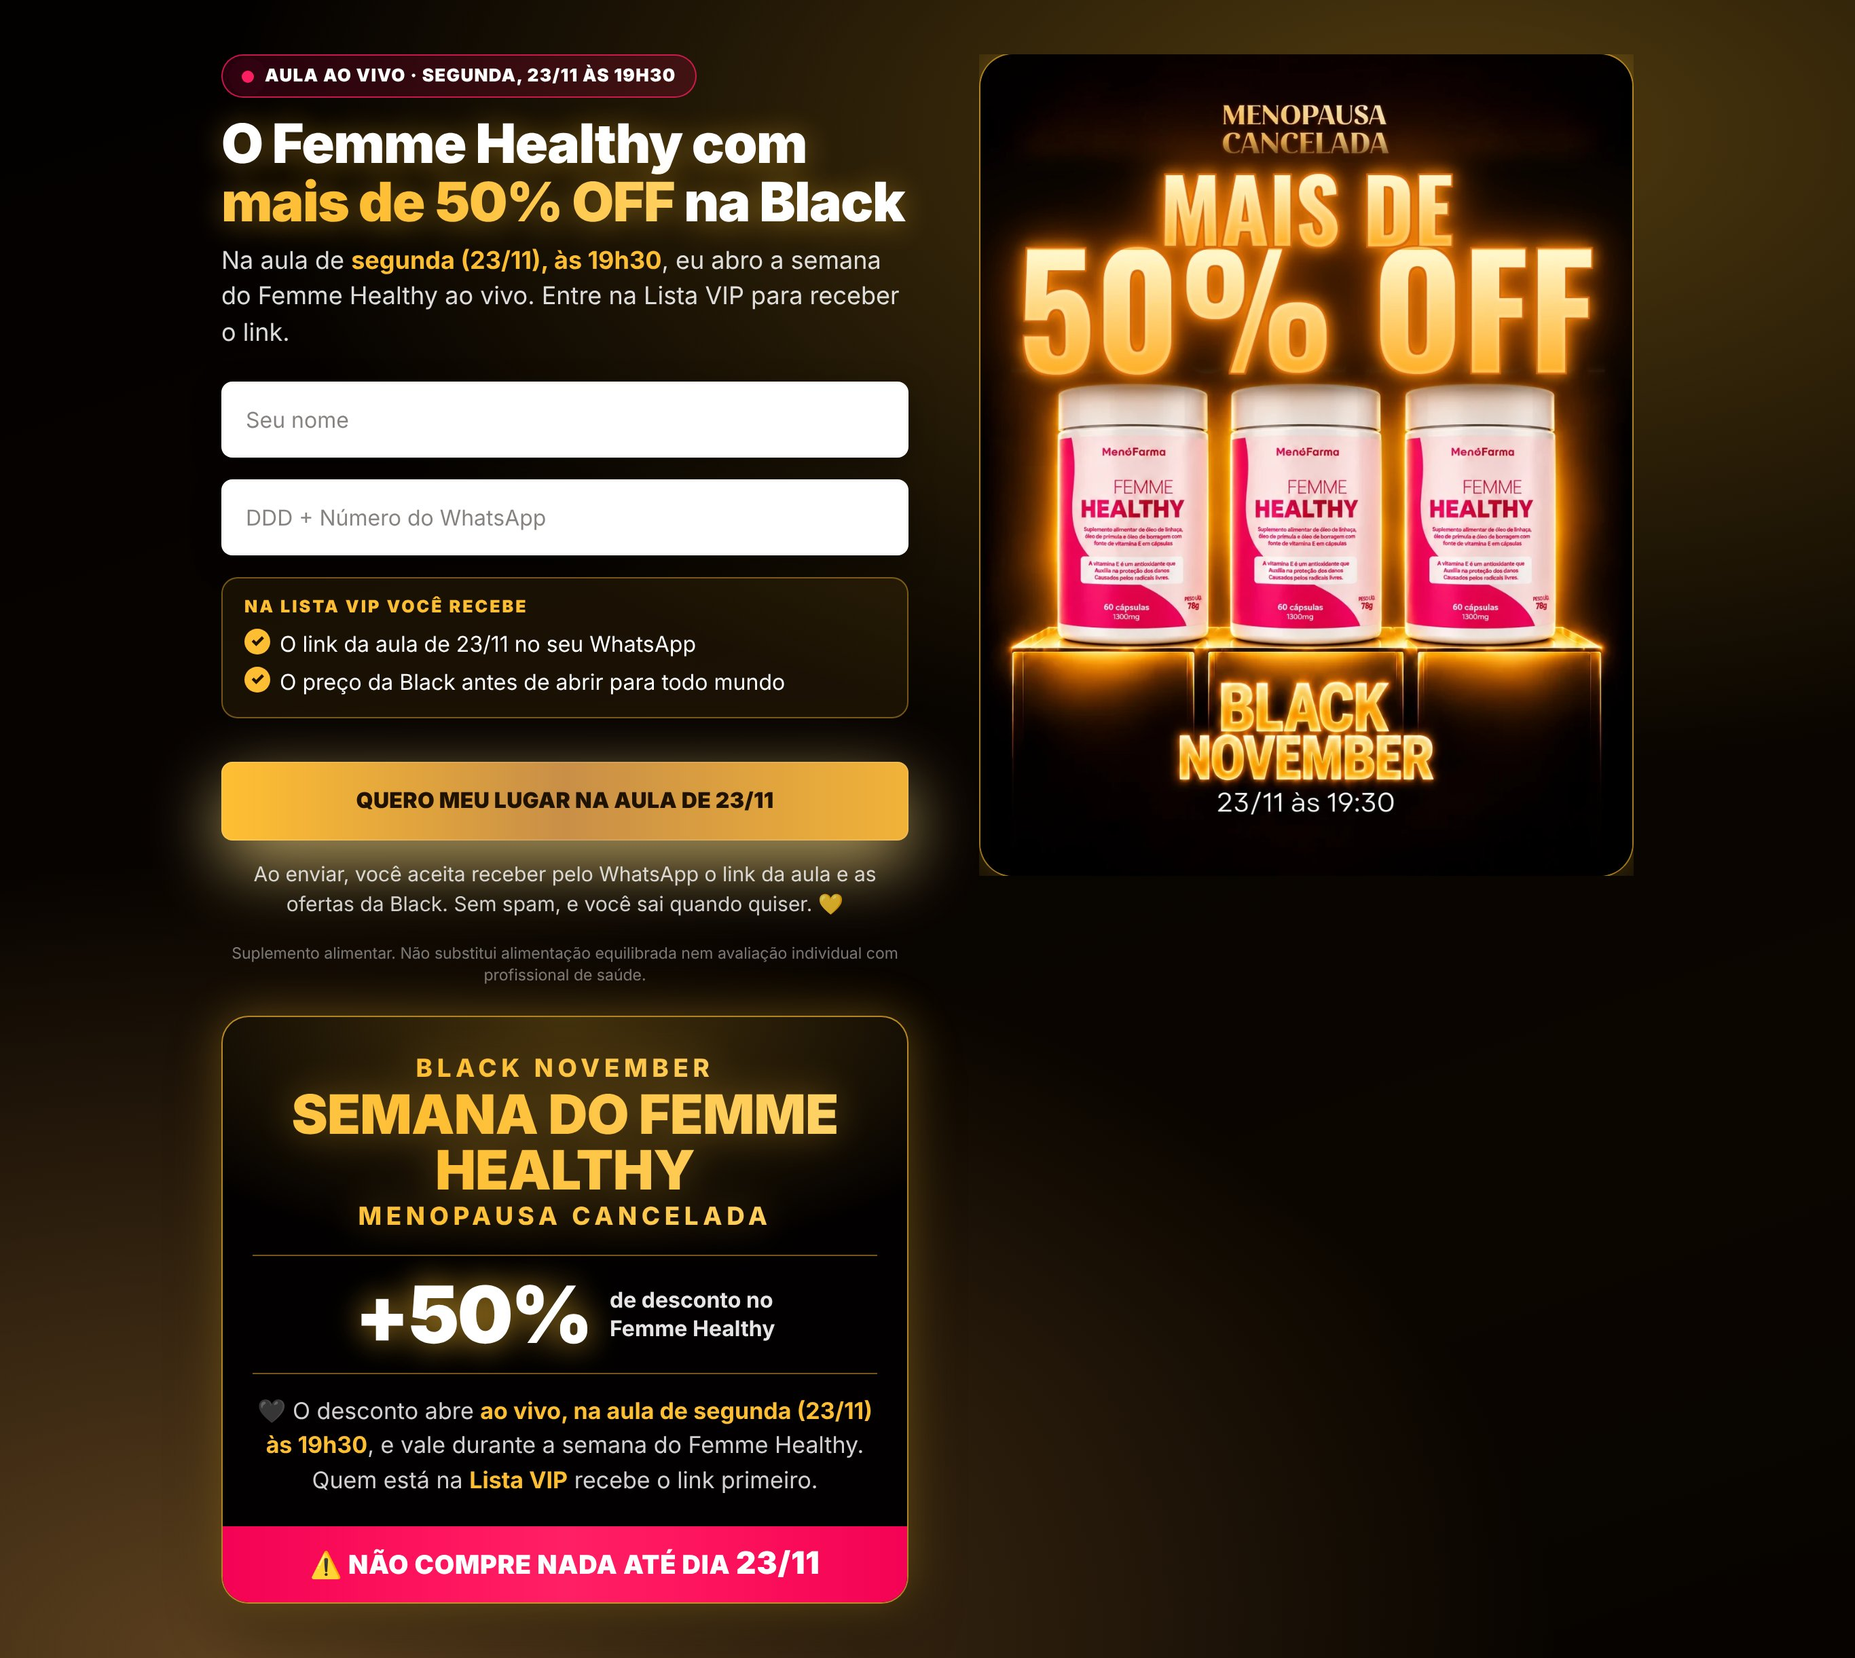
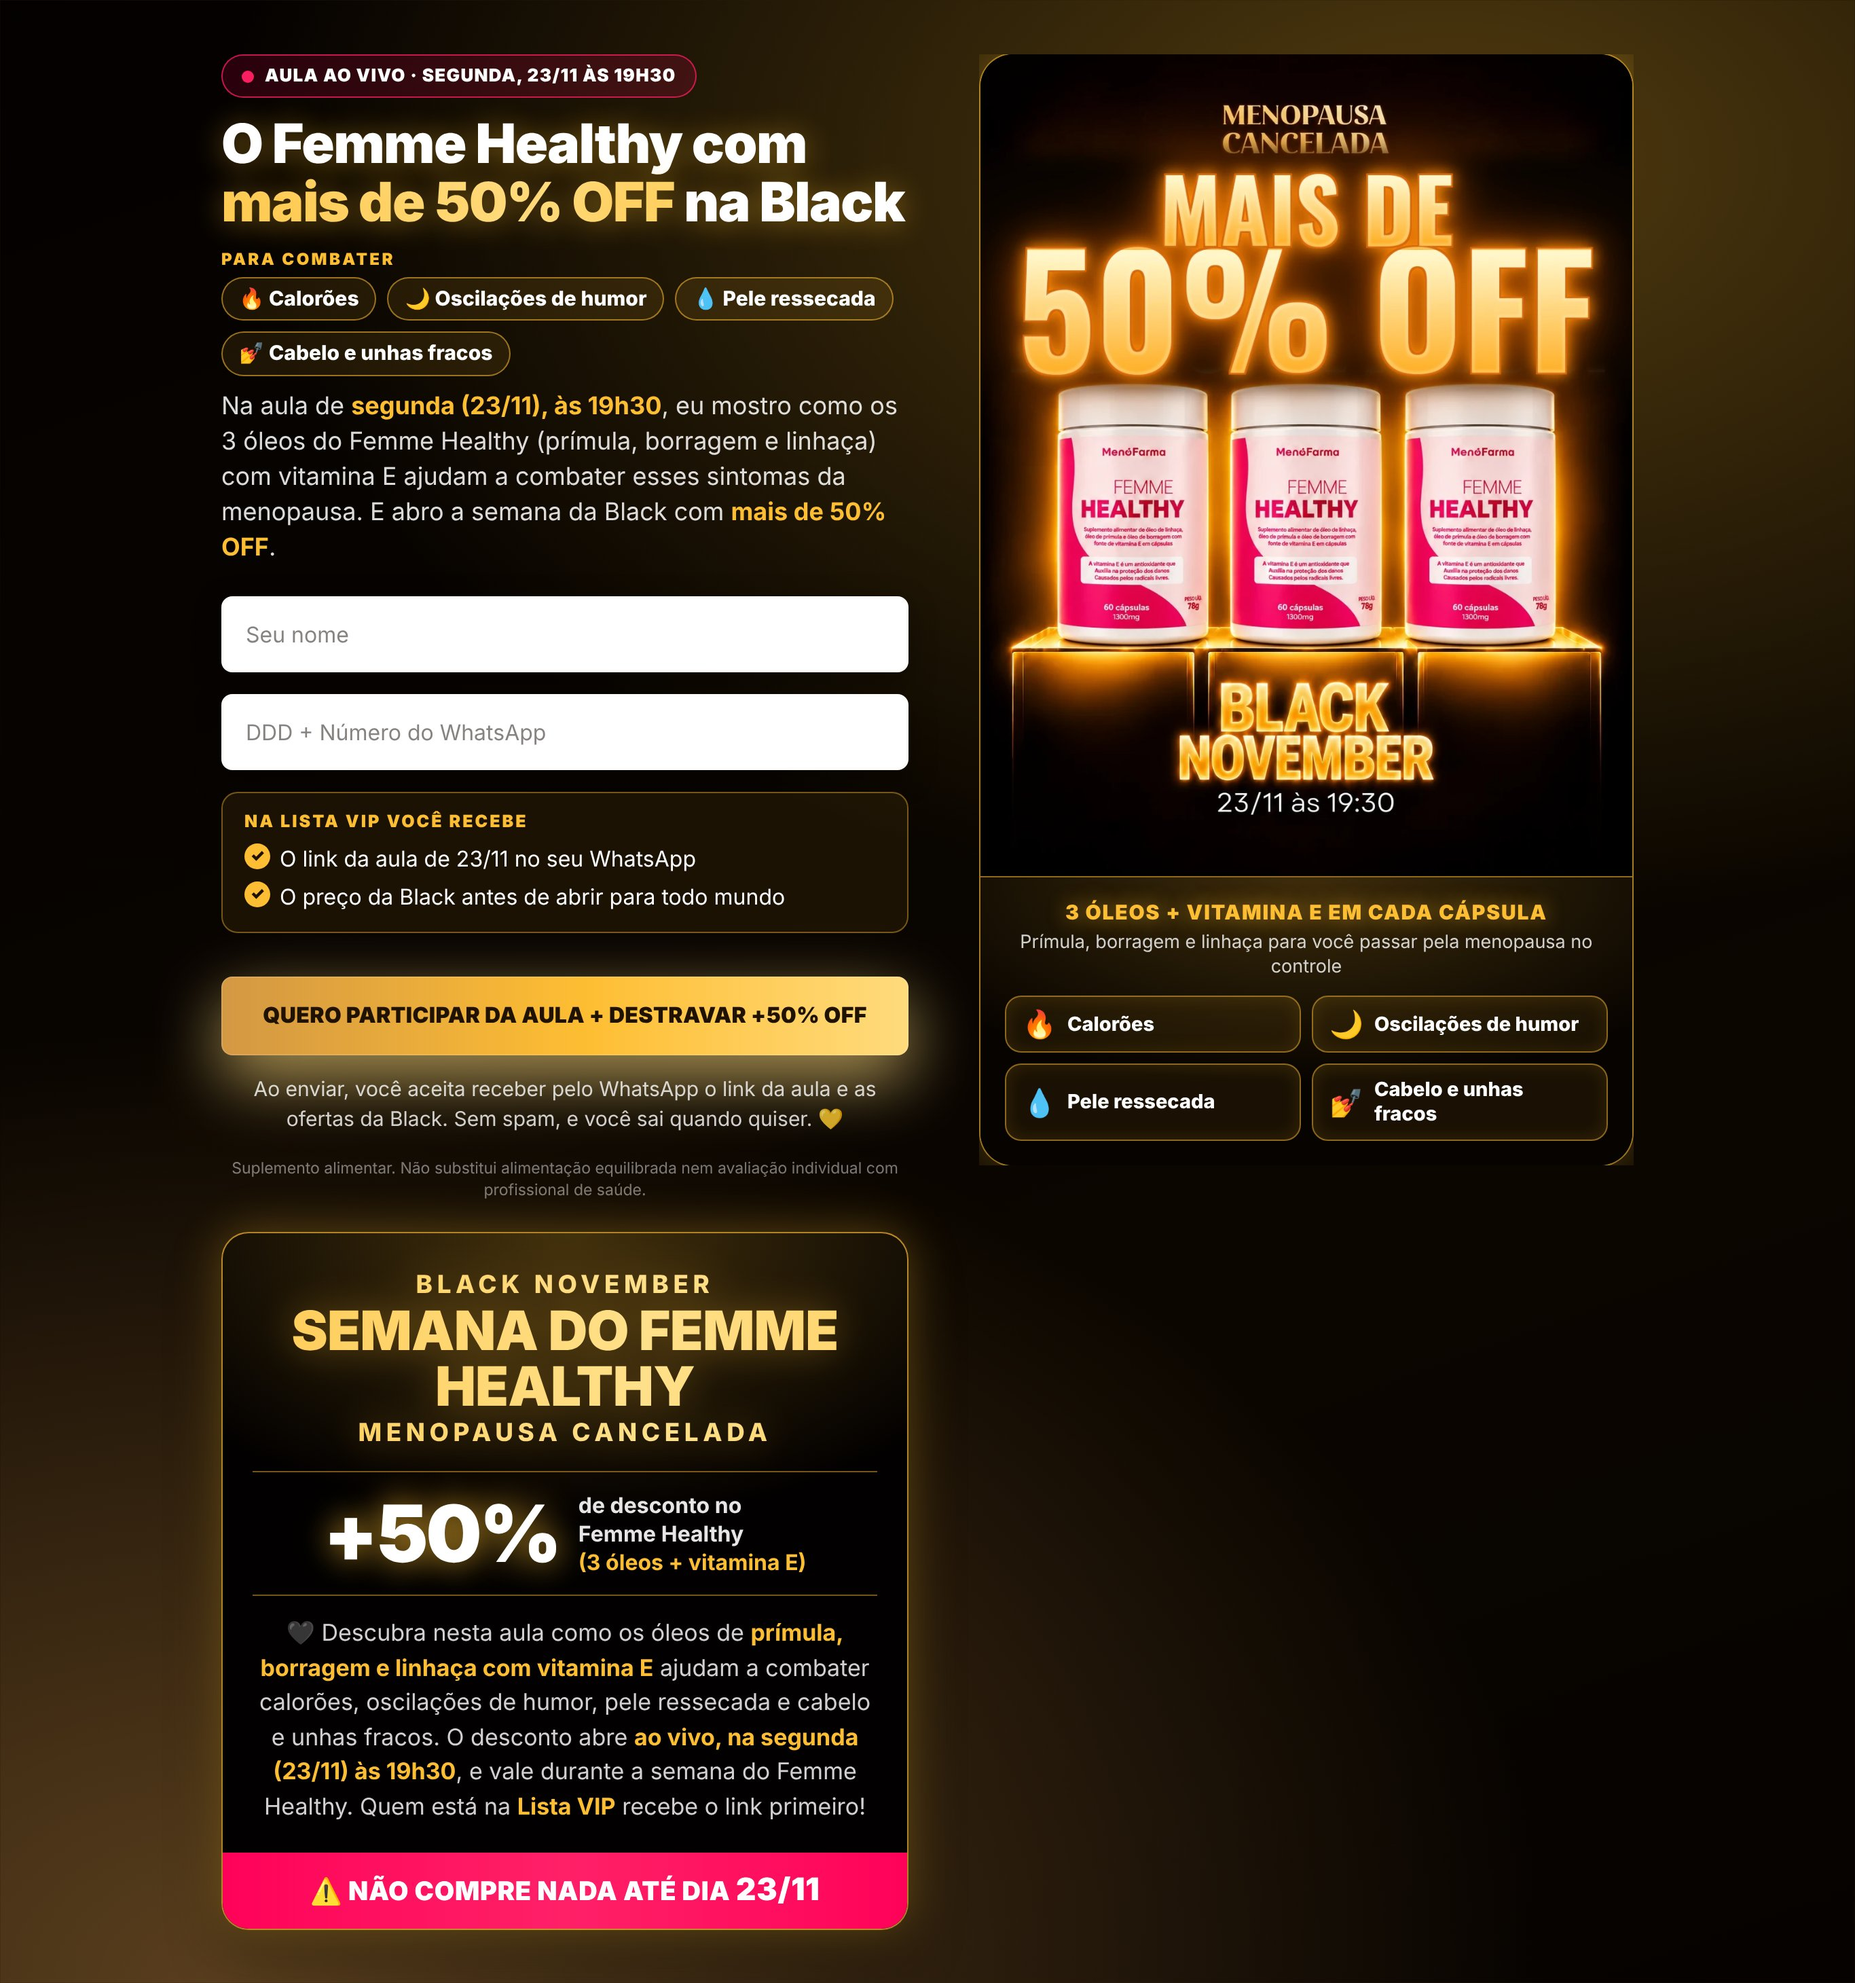
Captura Femme Healthy: benefícios na headline, na arte e no botão
Claude-Session: https://claude.ai/code/session_01WNQxXnAB95y5RPLTeSNP1L

Changed region(s): [[0.0933, 0.0, 0.4978, 0.9959], [0.5289, 0.0, 0.8712, 0.5913], [0.5289, 0.0311, 0.56, 0.0622]]

diff --git a/projetos/menopausa-cancelada/06-copy/captura-femme-black/index.html b/projetos/menopausa-cancelada/06-copy/captura-femme-black/index.html
@@ -279,6 +279,43 @@ src="https://www.facebook.com/tr?id=2867941233444745&ev=PageView&noscript=1"
     .hero__media{grid-row:1 / span 3;position:sticky;top:40px}
   }
   @media (prefers-reduced-motion:reduce){ .live-pill i,.hero__head h1 .grad{animation:none} }
+
+  /* ===== v4: benefícios na headline, na arte e no botão ===== */
+  .bens{display:flex;flex-wrap:wrap;justify-content:center;gap:8px;margin:14px 0 0;padding:0;list-style:none}
+  .bens li{display:inline-flex;align-items:center;gap:6px;padding:7px 12px;border-radius:999px;
+    background:rgba(254,190,51,.10);border:1px solid rgba(254,190,51,.55);
+    font-size:clamp(13px,3.5vw,15px);font-weight:800;line-height:1.1;color:#fff;white-space:nowrap}
+  .bens .bens__lbl{width:100%;justify-content:center;margin:0 0 -2px;padding:0;border:0;background:none;
+    font-size:12px;font-weight:900;letter-spacing:.14em;text-transform:uppercase;color:#FEBE33}
+  .art{position:relative;max-width:480px;margin:0 auto;border-radius:24px;overflow:hidden;background:#020000;
+    box-shadow:0 0 0 1px rgba(254,190,51,.55),0 0 50px rgba(254,190,51,.42),0 34px 70px rgba(0,0,0,.62)}
+  .art img{border-radius:0!important;box-shadow:none!important;max-width:none!important}
+  .art__bens{padding:16px 18px 18px;border-top:1px solid rgba(254,190,51,.55);
+    background:radial-gradient(120% 120% at 50% 0%,rgba(254,190,51,.22),rgba(0,0,0,0) 60%),#070300}
+  .art__t{margin:0 0 4px;text-align:center;font-size:15px;font-weight:900;letter-spacing:.06em;text-transform:uppercase;color:#FEBE33;
+    text-shadow:0 0 14px rgba(254,190,51,.6)}
+  .art__s{margin:0 0 12px;text-align:center;font-size:13.5px;line-height:1.35;color:rgba(255,255,255,.8)}
+  .art__grid{display:grid;grid-template-columns:1fr 1fr;gap:8px;margin:0;padding:0;list-style:none}
+  .art__grid li{display:flex;align-items:center;gap:8px;padding:10px 12px;border-radius:12px;
+    background:rgba(254,190,51,.08);border:1px solid rgba(254,190,51,.5);box-shadow:inset 0 0 14px rgba(254,190,51,.12);
+    font-size:14.5px;font-weight:800;line-height:1.2;color:#fff}
+  .art__grid li span{font-size:20px;line-height:1}
+  @media (max-width:767px){
+    .art{border-radius:16px;max-width:none;width:min(100%,calc(36vh * 1117 / 1408))}
+    .hero__media img{width:100%!important}
+    .art__bens{display:none}
+    .bens{gap:5px;margin-top:8px}
+    .bens li{padding:5px 9px;font-size:13px}
+    .live-pill{margin-bottom:8px}
+    .hero__inner{gap:14px}
+    .form{gap:12px}
+    .form .btn{font-size:14px;min-height:54px;padding:10px 14px}
+  }
+  @media (min-width:768px){
+    .bens{justify-content:flex-start}
+    .bens .bens__lbl{justify-content:flex-start}
+    .hero__media img{max-width:none}
+  }
 </style>
   <script async src="https://cap.api4tech.com.br/cap.js"></script>
 </head>
@@ -287,13 +324,29 @@ src="https://www.facebook.com/tr?id=2867941233444745&ev=PageView&noscript=1"
     <div class="hero__inner">
 
       <div class="hero__media fade-in">
-        <img src="femme-2311-50off.webp" alt="Femme Healthy com mais de 50% OFF · Black November da Menopausa Cancelada · 23/11 às 19:30" width="1117" height="1408" fetchpriority="high">
+        <div class="art">
+          <img src="femme-2311-50off.webp" alt="Femme Healthy com mais de 50% OFF · Black November da Menopausa Cancelada · 23/11 às 19:30" width="1117" height="1408" fetchpriority="high">
+          <div class="art__bens">
+            <p class="art__t">3 óleos + vitamina E em cada cápsula</p>
+            <p class="art__s">Prímula, borragem e linhaça para você passar pela menopausa no controle</p>
+            <ul class="art__grid">
+              <li><span>🔥</span>Calorões</li>
+              <li><span>🌙</span>Oscilações de humor</li>
+              <li><span>💧</span>Pele ressecada</li>
+              <li><span>💅</span>Cabelo e unhas fracos</li>
+            </ul>
+          </div>
+        </div>
       </div>
 
       <div class="hero__head fade-in">
         <p class="live-pill"><i></i>Aula ao vivo · segunda, 23/11 às 19h30</p>
         <h1>O Femme Healthy com <span class="grad">mais de 50% OFF</span> na Black</h1>
-        <p class="head-sub">Na aula de <b>segunda (23/11), às 19h30</b>, eu abro a semana do Femme Healthy ao vivo. Entre na Lista VIP para receber o link.</p>
+        <ul class="bens" aria-label="Para combater">
+          <li class="bens__lbl">Para combater</li>
+          <li>🔥 Calorões</li><li>🌙 Oscilações de humor</li><li>💧 Pele ressecada</li><li>💅 Cabelo e unhas fracos</li>
+        </ul>
+        <p class="head-sub">Na aula de <b>segunda (23/11), às 19h30</b>, eu mostro como os 3 óleos do Femme Healthy (prímula, borragem e linhaça) com vitamina E ajudam a combater esses sintomas da menopausa. E abro a semana da Black com <b>mais de 50% OFF</b>.</p>
       </div>
 
       <div class="hero__form-wrap fade-in">
@@ -318,7 +371,7 @@ src="https://www.facebook.com/tr?id=2867941233444745&ev=PageView&noscript=1"
             <!-- Texto novo do botão. A regra de clique do Meta (Events Manager, pixel 2867941233444745) casava
                  "quero entrar na lista de espera" e gerava um 2º Lead; este texto não casa com ela, mas confira a regra
                  antes de subir. O U+200B (&#8203;) fica por garantia. O Lead único é o do código (redir-…). -->
-            <button type="submit" class="btn" aria-label="Quero meu lugar na aula de 23/11">QUERO MEU LUGAR&#8203; NA AULA DE 23/11</button>
+            <button type="submit" class="btn" aria-label="Quero participar da aula e destravar mais de 50% OFF">QUERO PARTICIPAR&#8203; DA AULA + DESTRAVAR +50% OFF</button>
           </form>
           <p class="form__note">Ao enviar, você aceita receber pelo WhatsApp o link da aula e as ofertas da Black. Sem spam, e você sai quando quiser. 💛</p>
           <p class="disclaimer">Suplemento alimentar. Não substitui alimentação equilibrada nem avaliação individual com profissional de saúde.</p>
@@ -331,9 +384,9 @@ src="https://www.facebook.com/tr?id=2867941233444745&ev=PageView&noscript=1"
           <h2 class="offer__title"><span>Black November</span> Semana do Femme Healthy <span>Menopausa Cancelada</span></h2>
           <div class="offer__stat">
             <strong>+50%</strong>
-            <span>de desconto no<br>Femme Healthy</span>
+            <span>de desconto no<br>Femme Healthy<br><em style="font-style:normal;color:#FEBE33">(3 óleos + vitamina E)</em></span>
           </div>
-          <p class="offer__txt">🖤 O desconto abre <b>ao vivo, na aula de segunda (23/11) às 19h30</b>, e vale durante a semana do Femme Healthy. Quem está na <b>Lista VIP</b> recebe o link primeiro.</p>
+          <p class="offer__txt">🖤 Descubra nesta aula como os óleos de <b>prímula, borragem e linhaça com vitamina E</b> ajudam a combater calorões, oscilações de humor, pele ressecada e cabelo e unhas fracos. O desconto abre <b>ao vivo, na segunda (23/11) às 19h30</b>, e vale durante a semana do Femme Healthy. Quem está na <b>Lista VIP</b> recebe o link primeiro!</p>
           <p class="offer__warn">⚠ Não compre nada até dia <b>23/11</b></p>
         </div>
       </div>
